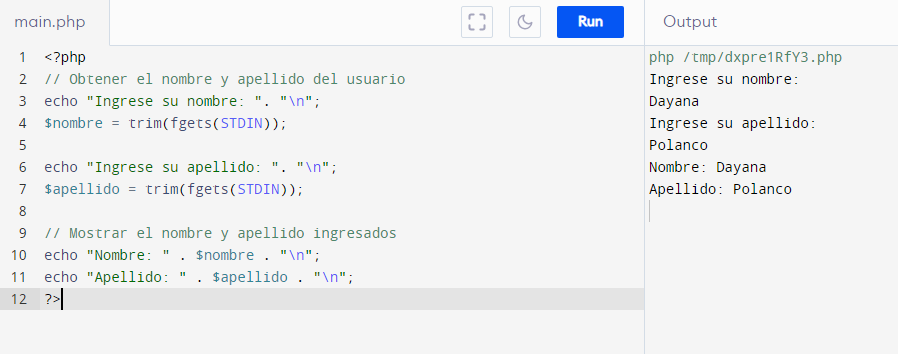
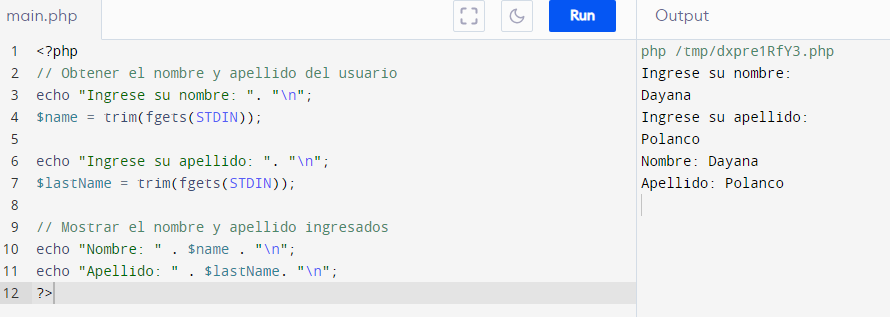
punto 6

diff --git a/punto-4/punto-4.php b/punto-4/punto-4.php
@@ -1,12 +1,12 @@
 <?php
 // Obtener el nombre y apellido del usuario
 echo "Ingrese su nombre: ". "\n";
-$nombre = trim(fgets(STDIN));
+$name = trim(fgets(STDIN));
 
 echo "Ingrese su apellido: ". "\n";
-$apellido = trim(fgets(STDIN));
+$lastName = trim(fgets(STDIN));
 
 // Mostrar el nombre y apellido ingresados
-echo "Nombre: " . $nombre . "\n";
-echo "Apellido: " . $apellido . "\n";
+echo "Nombre: " . $name . "\n";
+echo "Apellido: " . $lastName. "\n";
 ?>

diff --git a/punto-6/punto-6.php b/punto-6/punto-6.php
@@ -1,0 +1,19 @@
+<?php
+// Obtener el nombre y la edad del usuario
+echo "Ingrese su nombre: " . "\n";
+$name = trim(fgets(STDIN));
+
+echo "Ingrese su edad: ". "\n";
+$age = intval(trim(fgets(STDIN)));
+
+// Verificar si es mayor o menor de edad
+$message = "";
+if ($age >= 18) {
+    $message = "Usted es mayor de edad.". "\n";
+} else {
+    $message = "Usted es menor de edad.". "\n";
+}
+
+// Mostrar el mensaje
+echo "Hola, $name. $message\n";
+?>

diff --git a/README.md b/README.md
@@ -15,7 +15,7 @@
 <h2> Punto 5: Calculo de pago en Bolera con IF</h2>
 <img src="./public/images/image-5.PNG">
 <h2> Punto 6: Usuario mayor o menor de edad</h2>
-
+<img src="./public/images/image-6.PNG">
 <h2> Punto 7: Operaciones básicas entre 2 números</h2>
 
 <h2> Punto 8: Calculo de pago en Bolera con SWITCH</h2>
